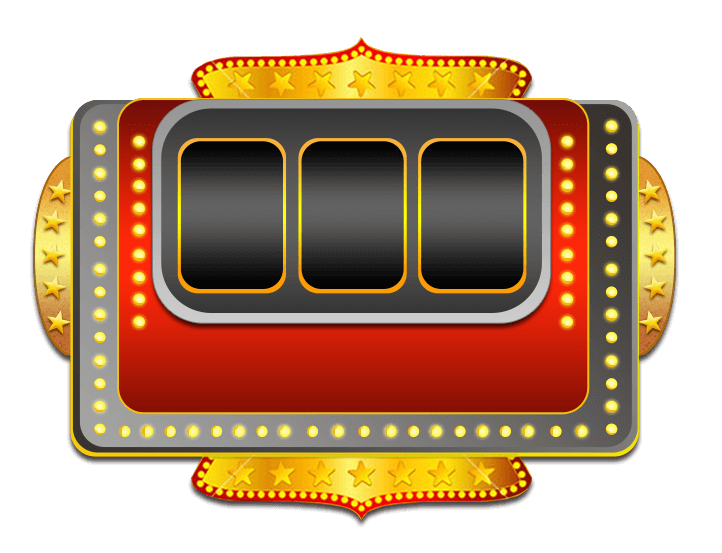
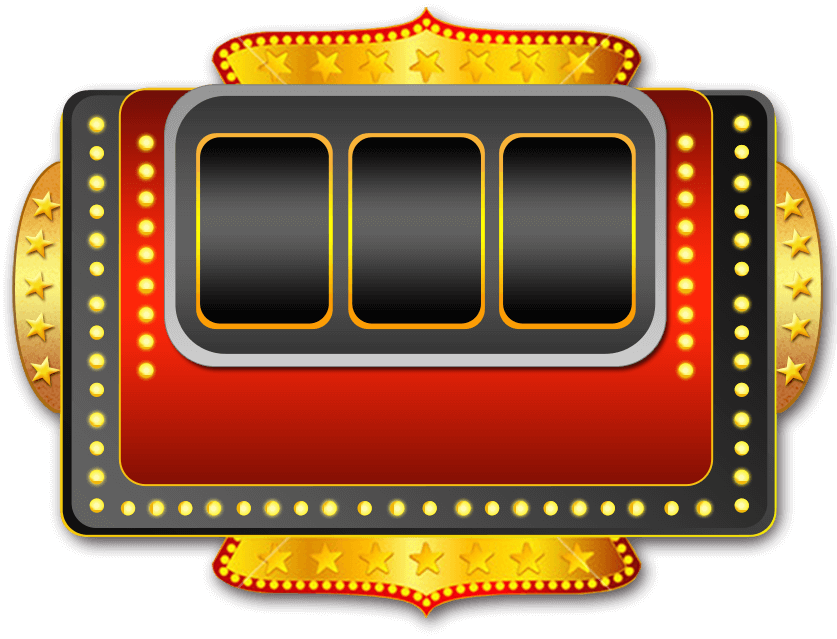
年会抽奖

diff --git a/work/2016lottery/js/js.min.js b/work/2016lottery/js/js.min.js
@@ -1,1 +1,1 @@
-!function(e){"use strict";var t="001,刘星,总经办;002,高鹏,海外事业部;003,吕孟欣,总经办;004,黄俊,技术部;005,张明哲,商务部;006,李典意,技术部;007,吕元璐,产品运营部;009,吴畏,第三方运营部;010,孟宪宝,供应链部;011,杨洪强,设计部;015,周强,技术部;016,李秋玉,商务部;017,陈娟,设计部;019,陈胜,技术部;020,赵少小,技术部;021,龚洪波,技术部;022,梁铭,第三方运营部;023,胡云,第三方运营部;024,卓邦友,产品运营部;025,罗静,技术部;026,许庆亚,海外事业部;027,钟浩,技术部;028,许其龙,技术部;029,吴佳坤,产品运营部;030,罗傲霜,产品运营部;031,张飞鹏,商务部;032,林佩锋,第三方运营部;034,吴鹏飞,技术部;035,杜果,设计部;036,利全佳,技术部;037,李峰,供应链部;038,申赋育,产品运部营;039,张晴,供应链部;040,李洁,设计部;041,吴珊,第三方运营部;042,黄绵卫,产品运营部;043,李路青,设计部;044,万雪良,产品运营部;045,吴优,设计部;046,陈花,技术部;047,余俊,产品运营部;048,杨志鹏,商务部;049,封美丽,商务部;051,李辉,产品运营部;052,汪凌峰,产品运营部;053,林卉,产品运营部;054,李芳芳,财务部;055,郑军,供应链部;056,杜莎莎,产品运营部;057,孙佳慧,人力行政部;059,李明晶,产品运营部;062,杨威,海外事业部;063,周易里,产品运营部;064,文雯,技术部;065,吴伟欣,商务部;066,邹丽,第三方运营部;067,张喆,第三方运营部;069,曹雅茹,产品运营部;070,罗成,技术部;071,李嘉莹,财务部;073,鲍飞,技术部;074,李令成,第三方运营部;075,谢斌,商务部;076,曾瑶敏,人力行政部;077,仲一成,商务部;079,李妍,产品运营部;080,刘羽,产品运营部;081,梁成进,技术部;082,谢诚诚,设计部;083,黄义秦,设计部;085,刘文俊,产品运营部;087,张飞云,商务部;088,程秀,商务部;089,刘旭东,产品运营部;090,蔡秋金,人力行政部;091,柳俊,技术部;092,屈国洪,供应链部;093,陈之励,运营部;094,陈洁琼,运营部;095,林増,产品运营部;096,黄逸明,运营部;098,邓雨婷,运营部;099,游如凤,商务部;101,曹方芳,产品运营部;102,刘文清,技术部;103,李颖,商务部;105,郭璋,海外事业部;106,周毅,海外事业部;107,汪庆文,技术部;109,徐美霞,产品运营部;110,文健,海外事业部;111,戴树云,人力资源部;112,李行,产品运营部;113,林伟令,第三方运营部;116,刘巧灵,供应链部;117,吕阳,人力资源部;118,杨争方,供应链部;119,杨元,财务部;120,魏仁志,技术部;122,尹利群,设计部;123,王超辉,技术部;124,胡浩,海外事业部;125,徐林楠,设计部;126,方增鸿,技术部",n=Base.klass.create({elements:{"#j_controlBtn":"elBtn","#j_num_1":"elNum1","#j_num_2":"elNum2","#j_num_3":"elNum3","#j_resultWrap":"elResultWrap","#j_gameWrap":"elGameWrap"},events:{"click #j_controlBtn":"lotteryEvent","click #j-clearList":"clearListEvent","click #j_layerBg":"closeLayerEvent"},debug:!1,params:{animateSpeed:100,singleHeight:145,data:null,winningCookieId:"winningId",isPlaying:!1,playFlag:"active"},consoleLog:function(e){this.debug&&console.log(e)},init:function(){this.params.data=this._parseData(),this.consoleLog(this.params.data),this.specialEvent(),this.flush()},_parseData:function(){var e,n,i,a=[];if(t&&(e=String(t).split(";"),n=e.length,n>0))for(var s=0;n>s;s++)i=String(e[s]).split(","),a.push({id:i[0],name:i[1],department:i[2]});return a},flush:function(){},specialEvent:function(){var t=e("#j_wel2016"),n=this,i=1e3;t.one("click",function(){t.animate({bottom:0,right:0,width:"200px"},i),n.elGameWrap.fadeIn(2e3)})},lotteryEvent:function(e){return e.preventDefault(),this.params.isPlaying?!1:void(this.elBtn.hasClass(this.params.playFlag)?this.endLottery():this.startLottery())},clearListEvent:function(){this.clearWinningedUser(),alert("清除中奖纪录成功")},closeLayerEvent:function(){this.elResultWrap.fadeOut()},getWinningedUser:function(){return Base.cookie.getCookie(this.params.winningCookieId)},addWinningedUser:function(e){Base.cookie.setCookie({name:this.params.winningCookieId,value:(this.getWinningedUser()+","+e).replace(/^,*/,"")})},clearWinningedUser:function(){Base.cookie.setCookie({name:this.params.winningCookieId,value:""})},getRandomUser:function(e){function t(){var n=Math.floor(Math.random()*e);return this.consoleLog(n+"是中过奖"+(a.indexOf(i[n].id)>-1)),n=a.indexOf(i[n].id)>-1?t.call(this,e):n}var n,i=this.params.data,a=this.getWinningedUser();return e=e||i.length,a.split(",").length>=e?!1:(n=t.call(this),i[n])},_animate:function(t,n){function i(){t.css({top:0}).delay(n.delay).animate({top:s+"px"},l,n.easing,function(){n.isFree?(t.css({top:0}),n.delay=0,i()):n.endCall()})}function a(e){n.isFree=!1,"function"==typeof e&&(n.endCall=e)}n=e.extend({isFree:!0,singleSpeed:this.params.animateSpeed,easing:"linear",singleHeight:this.params.singleHeight,numberLength:10,delay:0,endCall:e.noop},n);var s=0-n.singleHeight*n.numberLength,l=+n.singleSpeed*n.numberLength;return i(),{start:i,end:a}},startAnimate:function(){this.animateNum1=this._animate(this.elNum1,{delay:400}),this.animateNum2=this._animate(this.elNum2,{delay:200}),this.animateNum3=this._animate(this.elNum3)},fixRandomNum:function(e){return 10>e?"00"+e:100>e?"0"+e:e},endAnimate:function(){function e(){clearTimeout(a),a=setTimeout(function(){n["animateNum"+i].end(function(){n["elNum"+i].css({top:0}),n._animate(n["elNum"+i],{isFree:!1,numberLength:+String(t).charAt(i-1),endCall:function(){i--,0!=i?e():setTimeout(function(){n._showResult(),n.params.isPlaying=!1},l)}})})},s)}var t=this.fixRandomNum(+this.winUser.id),n=this,i=3,a=null,s=700,l=1e3;n.params.isPlaying=!0,e()},_showResult:function(){this.elResultWrap.find(".j_id").text("MS0"+this.winUser.id),this.elResultWrap.find(".j_department").text(this.winUser.department),this.elResultWrap.find(".j_name").text(this.winUser.name),this.elResultWrap.fadeIn()},startLottery:function(){this.elBtn.addClass(this.params.playFlag),this.startAnimate()},endLottery:function(){var e;this.elBtn.removeClass(this.params.playFlag),this.winUser=e=this.getRandomUser(),0!=e?(this.consoleLog("当前中奖用户:"),this.consoleLog(e),this.addWinningedUser(e.id),this.endAnimate()):alert("所有人都中过奖了")}});e(function(){new n})}(jQuery);
+!function(e){"use strict";var t="001,刘星,总经办;001,刘星,总经办;002,高鹏,海外事业部;003,吕孟欣,总经办;004,黄俊,技术部;005,张明哲,商务部;006,李典意,技术部;007,吕元璐,产品运营部;009,吴畏,第三方运营部;010,孟宪宝,供应链部;011,杨洪强,设计部;015,周强,技术部;016,李秋玉,商务部;017,陈娟,设计部;019,陈胜,技术部;020,赵少小,技术部;021,龚洪波,技术部;022,梁铭,第三方运营部;023,胡云,第三方运营部;024,卓邦友,产品运营部;025,罗静,技术部;026,许庆亚,海外事业部;027,钟浩,技术部;028,许其龙,技术部;029,吴佳坤,产品运营部;030,罗傲霜,产品运营部;031,张飞鹏,商务部;032,林佩锋,第三方运营部;034,吴鹏飞,技术部;035,杜果,设计部;036,利全佳,技术部;037,李峰,供应链部;038,申赋育,产品运部营;039,张晴,供应链部;040,李洁,设计部;041,吴珊,第三方运营部;042,黄绵卫,产品运营部;043,李路青,设计部;044,万雪良,产品运营部;045,吴优,设计部;046,陈花,技术部;047,余俊,产品运营部;048,杨志鹏,商务部;049,封美丽,商务部;051,李辉,产品运营部;052,汪凌峰,产品运营部;053,林卉,产品运营部;054,李芳芳,财务部;055,郑军,供应链部;056,杜莎莎,产品运营部;057,孙佳慧,人力行政部;059,李明晶,产品运营部;062,杨威,海外事业部;063,周易里,产品运营部;064,文雯,技术部;065,吴伟欣,商务部;066,邹丽,第三方运营部;067,张喆,第三方运营部;069,曹雅茹,产品运营部;070,罗成,技术部;071,李嘉莹,财务部;073,鲍飞,技术部;074,李令成,第三方运营部;075,谢斌,商务部;076,曾瑶敏,人力行政部;077,仲一成,商务部;079,李妍,产品运营部;080,刘羽,产品运营部;081,梁成进,技术部;082,谢诚诚,设计部;083,黄义秦,设计部;085,刘文俊,产品运营部;087,张飞云,商务部;088,程秀,商务部;089,刘旭东,产品运营部;090,蔡秋金,人力行政部;091,柳俊,技术部;092,屈国洪,供应链部;093,陈之励,运营部;094,陈洁琼,运营部;095,林増,产品运营部;096,黄逸明,运营部;098,邓雨婷,运营部;099,游如凤,商务部;101,曹方芳,产品运营部;102,刘文清,技术部;103,李颖,商务部;105,郭璋,海外事业部;106,周毅,海外事业部;107,汪庆文,技术部;109,徐美霞,产品运营部;110,文健,海外事业部;111,戴树云,人力资源部;112,李行,产品运营部;113,林伟令,第三方运营部;116,刘巧灵,供应链部;117,吕阳,人力资源部;118,杨争方,供应链部;119,杨元,财务部;120,魏仁志,技术部;122,尹利群,设计部;123,王超辉,技术部;124,胡浩,海外事业部;125,徐林楠,设计部;126,方增鸿,技术部",n=Base.klass.create({elements:{"#j_controlBtn":"elBtn","#j_num_1":"elNum1","#j_num_2":"elNum2","#j_num_3":"elNum3","#j_resultWrap":"elResultWrap","#j_gameWrap":"elGameWrap"},events:{"click #j_controlBtn":"lotteryEvent","click #j-clearList":"clearListEvent","click #j_layerBg":"closeLayerEvent"},debug:!1,params:{animateSpeed:100,singleHeight:185,data:null,winningCookieId:"winningId",isPlaying:!1,playFlag:"active"},consoleLog:function(e){this.debug&&console.log(e)},init:function(){this.params.data=this._parseData(),this.consoleLog(this.params.data),this.specialEvent(),this.flush()},_parseData:function(){var e,n,i,a=[];if(t&&(e=String(t).split(";"),n=e.length,n>0))for(var s=0;n>s;s++)i=String(e[s]).split(","),a.push({id:i[0],name:i[1],department:i[2]});return a},flush:function(){},specialEvent:function(){var t=e("#j_wel2016"),n=this,i=1e3;t.one("click",function(){t.animate({bottom:0,right:0,width:"15%"},i),n.elGameWrap.fadeIn(2e3)})},lotteryEvent:function(e){return e.preventDefault(),this.params.isPlaying?!1:void(this.elBtn.hasClass(this.params.playFlag)?this.endLottery():this.startLottery())},clearListEvent:function(){this.clearWinningedUser(),alert("清除中奖纪录成功")},closeLayerEvent:function(){this.elResultWrap.fadeOut()},getWinningedUser:function(){return Base.cookie.getCookie(this.params.winningCookieId)},addWinningedUser:function(e){Base.cookie.setCookie({name:this.params.winningCookieId,value:(this.getWinningedUser()+","+e).replace(/^,*/,"")})},clearWinningedUser:function(){Base.cookie.setCookie({name:this.params.winningCookieId,value:""})},getRandomUser:function(e){function t(){var n=Math.floor(Math.random()*e);return this.consoleLog(n+"是中过奖"+(a.indexOf(i[n].id)>-1)),n=a.indexOf(i[n].id)>-1?t.call(this,e):n}var n,i=this.params.data,a=this.getWinningedUser();return e=e||i.length,a.split(",").length>=e?!1:(n=t.call(this),i[n])},_animate:function(t,n){function i(){t.css({top:0}).delay(n.delay).animate({top:s+"px"},l,n.easing,function(){n.isFree?(t.css({top:0}),n.delay=0,i()):n.endCall()})}function a(e){n.isFree=!1,"function"==typeof e&&(n.endCall=e)}n=e.extend({isFree:!0,singleSpeed:this.params.animateSpeed,easing:"linear",singleHeight:this.params.singleHeight,numberLength:10,delay:0,endCall:e.noop},n);var s=0-n.singleHeight*n.numberLength,l=+n.singleSpeed*n.numberLength;return i(),{start:i,end:a}},startAnimate:function(){this.animateNum1=this._animate(this.elNum1,{delay:400}),this.animateNum2=this._animate(this.elNum2,{delay:200}),this.animateNum3=this._animate(this.elNum3)},fixRandomNum:function(e){return 10>e?"00"+e:100>e?"0"+e:e},endAnimate:function(){function e(){clearTimeout(a),a=setTimeout(function(){n["animateNum"+i].end(function(){n["elNum"+i].css({top:0}),n._animate(n["elNum"+i],{isFree:!1,numberLength:+String(t).charAt(i-1),endCall:function(){i--,0!=i?e():setTimeout(function(){n._showResult(),n.params.isPlaying=!1},l)}})})},s)}var t=this.fixRandomNum(+this.winUser.id),n=this,i=3,a=null,s=700,l=1e3;n.params.isPlaying=!0,e()},_showResult:function(){this.elResultWrap.find(".j_id").text("MS0"+this.winUser.id),this.elResultWrap.find(".j_department").text(this.winUser.department),this.elResultWrap.find(".j_name").text(this.winUser.name),this.elResultWrap.fadeIn()},startLottery:function(){this.elBtn.addClass(this.params.playFlag),this.startAnimate()},endLottery:function(){var e;this.elBtn.removeClass(this.params.playFlag),this.winUser=e=this.getRandomUser(),0!=e?(this.consoleLog("当前中奖用户:"),this.consoleLog(e),this.addWinningedUser(e.id),this.endAnimate()):alert("所有人都中过奖了")}});e(function(){new n})}(jQuery);

diff --git a/work/2016lottery/js/js.js b/work/2016lottery/js/js.js
@@ -1,7 +1,7 @@
 (function ($) {
     "use strict";
 
-    var USERDATA = '001,刘星,总经办;002,高鹏,海外事业部;003,吕孟欣,总经办;004,黄俊,技术部;005,张明哲,商务部;006,李典意,技术部;007,吕元璐,产品运营部;009,吴畏,第三方运营部;010,孟宪宝,供应链部;011,杨洪强,设计部;015,周强,技术部;016,李秋玉,商务部;017,陈娟,设计部;019,陈胜,技术部;020,赵少小,技术部;021,龚洪波,技术部;022,梁铭,第三方运营部;023,胡云,第三方运营部;024,卓邦友,产品运营部;025,罗静,技术部;026,许庆亚,海外事业部;027,钟浩,技术部;028,许其龙,技术部;029,吴佳坤,产品运营部;030,罗傲霜,产品运营部;031,张飞鹏,商务部;032,林佩锋,第三方运营部;034,吴鹏飞,技术部;035,杜果,设计部;036,利全佳,技术部;037,李峰,供应链部;038,申赋育,产品运部营;039,张晴,供应链部;040,李洁,设计部;041,吴珊,第三方运营部;042,黄绵卫,产品运营部;043,李路青,设计部;044,万雪良,产品运营部;045,吴优,设计部;046,陈花,技术部;047,余俊,产品运营部;048,杨志鹏,商务部;049,封美丽,商务部;051,李辉,产品运营部;052,汪凌峰,产品运营部;053,林卉,产品运营部;054,李芳芳,财务部;055,郑军,供应链部;056,杜莎莎,产品运营部;057,孙佳慧,人力行政部;059,李明晶,产品运营部;062,杨威,海外事业部;063,周易里,产品运营部;064,文雯,技术部;065,吴伟欣,商务部;066,邹丽,第三方运营部;067,张喆,第三方运营部;069,曹雅茹,产品运营部;070,罗成,技术部;071,李嘉莹,财务部;073,鲍飞,技术部;074,李令成,第三方运营部;075,谢斌,商务部;076,曾瑶敏,人力行政部;077,仲一成,商务部;079,李妍,产品运营部;080,刘羽,产品运营部;081,梁成进,技术部;082,谢诚诚,设计部;083,黄义秦,设计部;085,刘文俊,产品运营部;087,张飞云,商务部;088,程秀,商务部;089,刘旭东,产品运营部;090,蔡秋金,人力行政部;091,柳俊,技术部;092,屈国洪,供应链部;093,陈之励,运营部;094,陈洁琼,运营部;095,林増,产品运营部;096,黄逸明,运营部;098,邓雨婷,运营部;099,游如凤,商务部;101,曹方芳,产品运营部;102,刘文清,技术部;103,李颖,商务部;105,郭璋,海外事业部;106,周毅,海外事业部;107,汪庆文,技术部;109,徐美霞,产品运营部;110,文健,海外事业部;111,戴树云,人力资源部;112,李行,产品运营部;113,林伟令,第三方运营部;116,刘巧灵,供应链部;117,吕阳,人力资源部;118,杨争方,供应链部;119,杨元,财务部;120,魏仁志,技术部;122,尹利群,设计部;123,王超辉,技术部;124,胡浩,海外事业部;125,徐林楠,设计部;126,方增鸿,技术部';
+    var USERDATA = '001,刘星,总经办;001,刘星,总经办;002,高鹏,海外事业部;003,吕孟欣,总经办;004,黄俊,技术部;005,张明哲,商务部;006,李典意,技术部;007,吕元璐,产品运营部;009,吴畏,第三方运营部;010,孟宪宝,供应链部;011,杨洪强,设计部;015,周强,技术部;016,李秋玉,商务部;017,陈娟,设计部;019,陈胜,技术部;020,赵少小,技术部;021,龚洪波,技术部;022,梁铭,第三方运营部;023,胡云,第三方运营部;024,卓邦友,产品运营部;025,罗静,技术部;026,许庆亚,海外事业部;027,钟浩,技术部;028,许其龙,技术部;029,吴佳坤,产品运营部;030,罗傲霜,产品运营部;031,张飞鹏,商务部;032,林佩锋,第三方运营部;034,吴鹏飞,技术部;035,杜果,设计部;036,利全佳,技术部;037,李峰,供应链部;038,申赋育,产品运部营;039,张晴,供应链部;040,李洁,设计部;041,吴珊,第三方运营部;042,黄绵卫,产品运营部;043,李路青,设计部;044,万雪良,产品运营部;045,吴优,设计部;046,陈花,技术部;047,余俊,产品运营部;048,杨志鹏,商务部;049,封美丽,商务部;051,李辉,产品运营部;052,汪凌峰,产品运营部;053,林卉,产品运营部;054,李芳芳,财务部;055,郑军,供应链部;056,杜莎莎,产品运营部;057,孙佳慧,人力行政部;059,李明晶,产品运营部;062,杨威,海外事业部;063,周易里,产品运营部;064,文雯,技术部;065,吴伟欣,商务部;066,邹丽,第三方运营部;067,张喆,第三方运营部;069,曹雅茹,产品运营部;070,罗成,技术部;071,李嘉莹,财务部;073,鲍飞,技术部;074,李令成,第三方运营部;075,谢斌,商务部;076,曾瑶敏,人力行政部;077,仲一成,商务部;079,李妍,产品运营部;080,刘羽,产品运营部;081,梁成进,技术部;082,谢诚诚,设计部;083,黄义秦,设计部;085,刘文俊,产品运营部;087,张飞云,商务部;088,程秀,商务部;089,刘旭东,产品运营部;090,蔡秋金,人力行政部;091,柳俊,技术部;092,屈国洪,供应链部;093,陈之励,运营部;094,陈洁琼,运营部;095,林増,产品运营部;096,黄逸明,运营部;098,邓雨婷,运营部;099,游如凤,商务部;101,曹方芳,产品运营部;102,刘文清,技术部;103,李颖,商务部;105,郭璋,海外事业部;106,周毅,海外事业部;107,汪庆文,技术部;109,徐美霞,产品运营部;110,文健,海外事业部;111,戴树云,人力资源部;112,李行,产品运营部;113,林伟令,第三方运营部;116,刘巧灵,供应链部;117,吕阳,人力资源部;118,杨争方,供应链部;119,杨元,财务部;120,魏仁志,技术部;122,尹利群,设计部;123,王超辉,技术部;124,胡浩,海外事业部;125,徐林楠,设计部;126,方增鸿,技术部';
 
     var Lottery = Base.klass.create({
         elements: {
@@ -20,7 +20,7 @@
         debug: false,
         params: {
             animateSpeed: 100,   // 移动一格 ms,
-            singleHeight: 145,    // 单个高度
+            singleHeight: 185,    // 单个高度
             data: null,
             winningCookieId: 'winningId',
             isPlaying: false,
@@ -75,7 +75,7 @@
                 $elWel.animate({
                     bottom : 0,
                     right : 0,
-                    width : '200px'
+                    width : '15%'
                 },duration);
                 self.elGameWrap.fadeIn(2000);
             });

diff --git a/work/2016lottery/css/style.less b/work/2016lottery/css/style.less
@@ -1,24 +1,24 @@
 @import 'common/reset.less';
 
 //html,body{width: 100%;height: 100%;}
-.container{width: 1024px;margin: 0 auto;
+.container{width: 100%;margin: 0 auto;max-width: 1376px;min-width: 1120px;
     img{width: 100%;height: auto;vertical-align: top;}
     .bg-img{position:relative;z-index: -1;}
     .lottery-wrap{position: relative;}
     .content-wrap{position: absolute;width: 100%;height: 100%;top:0;left: 0;}
-    .wel-2016{position: absolute; width: 678px; bottom: 73px; right: 173px;}
+    .wel-2016{position: absolute; width: 49%; bottom: 22%; right: 26%;}
 
-    .game{display:none;position: relative;margin: 12px auto 0;width: 722px; height: auto;
-        .control-wrap{position: absolute;width:100%;height:auto;top:61%;left:0;text-align: center;filter: inherit;
-            .control-btn{position:relative;filter: inherit;display: inline-block;width: 260px;height: 65px;line-height: 65px;font-size: 0;background: url("../img/btn.png") no-repeat;transition: background-position 0.6s ease;vertical-align: top;
-                &.active{background-position: 0 -71px;}
+    .game{display:none;position: absolute;left:50%;top:50%;margin-left: -837/2px;margin-top:-639/2px;width: 837px; height: 639px;
+        .control-wrap{position: absolute;width:100%;height:auto;top:60%;left:0;text-align: center;filter: inherit;
+            .control-btn{position:relative;filter: inherit;display: inline-block;width: 480px;height: 90px;line-height: 65px;font-size: 0;background: url("../img/btn.png") no-repeat;transition: background-position 0.4s ease;vertical-align: top;
+                &.active{background-position: 0 -96px;}
             }
         }
-        .num-wrap{position: absolute; filter: inherit; width: 358px; height: 145px; top: 142px; left: 24%; overflow:hidden;
-            .num{position: absolute; filter: inherit; display:block;top: 0;width: 85px;height: 1595px;background: url("../img/num.png") no-repeat 50% 0;}
-            .num1{left: 17px;}
-            .num2{left: 137px;}
-            .num3{left: 257px;}
+        .num-wrap{position: absolute; filter: inherit; width: 432px; height: 185px; top: 138px; left: 24%; overflow:hidden;
+            .num{position: absolute; filter: inherit; display:block;top: 0;width: 114px;height: 2132px;background: url("../img/num.png") no-repeat 50% 0;background-size: 109px 2035px;}
+            .num1{left: 8px;}
+            .num2{left: 160px;}
+            .num3{left: 311px;}
         }
     }
     .result-wrap{display: none;position: absolute; width: 100%; height: 100%; top: 0; left: 0;
@@ -30,7 +30,7 @@
         h3{border-bottom: 1px solid #ffffff;font-size: 40px;}
         .result{display: table;width: 100%;font-size: 50px;line-height: 115px;
             span{display: table-cell;width: 33.333%;white-space: nowrap;text-overflow: ellipsis;overflow: hidden;}
-            .id,.department{font-size: 35px;max-width: 187px;}
+            .id,.department{font-size: 30px;max-width: 187px;}
         }
     }
     .clear-list{position: absolute; bottom: 0; left: 0;}

diff --git a/work/2016lottery/css/style.css b/work/2016lottery/css/style.css
@@ -121,8 +121,10 @@ input[type="submit"] {
   cursor: pointer;
 }
 .container {
-  width: 1024px;
+  width: 100%;
   margin: 0 auto;
+  max-width: 1376px;
+  min-width: 1120px;
 }
 .container img {
   width: 100%;
@@ -145,67 +147,76 @@ input[type="submit"] {
 }
 .container .wel-2016 {
   position: absolute;
-  width: 678px;
-  bottom: 73px;
-  right: 173px;
+  width: 49%;
+  bottom: 22%;
+  right: 26%;
 }
 .container .game {
   display: none;
-  position: relative;
-  margin: 12px auto 0;
-  width: 722px;
-  height: auto;
+  position: absolute;
+  left: 50%;
+  top: 50%;
+  margin-left: -418.5px;
+  margin-top: -319.5px;
+  width: 837px;
+  height: 639px;
 }
 .container .game .control-wrap {
   position: absolute;
   width: 100%;
   height: auto;
-  top: 61%;
+  top: 60%;
   left: 0;
   text-align: center;
-  filter: inherit;
+  -webkit-filter: inherit;
+          filter: inherit;
 }
 .container .game .control-wrap .control-btn {
   position: relative;
-  filter: inherit;
+  -webkit-filter: inherit;
+          filter: inherit;
   display: inline-block;
-  width: 260px;
-  height: 65px;
+  width: 480px;
+  height: 90px;
   line-height: 65px;
   font-size: 0;
   background: url("../img/btn.png") no-repeat;
-  transition: background-position 0.6s ease;
+  -webkit-transition: background-position 0.4s ease;
+          transition: background-position 0.4s ease;
   vertical-align: top;
 }
 .container .game .control-wrap .control-btn.active {
-  background-position: 0 -71px;
+  background-position: 0 -96px;
 }
 .container .game .num-wrap {
   position: absolute;
-  filter: inherit;
-  width: 358px;
-  height: 145px;
-  top: 142px;
+  -webkit-filter: inherit;
+          filter: inherit;
+  width: 432px;
+  height: 185px;
+  top: 138px;
   left: 24%;
   overflow: hidden;
 }
 .container .game .num-wrap .num {
   position: absolute;
-  filter: inherit;
+  -webkit-filter: inherit;
+          filter: inherit;
   display: block;
   top: 0;
-  width: 85px;
-  height: 1595px;
+  width: 114px;
+  height: 2132px;
   background: url("../img/num.png") no-repeat 50% 0;
+  background-size: 109px 2035px;
 }
 .container .game .num-wrap .num1 {
-  left: 17px;
+  left: 8px;
 }
 .container .game .num-wrap .num2 {
-  left: 137px;
+  left: 160px;
 }
 .container .game .num-wrap .num3 {
-  left: 257px;
+  left: 311px;
 }
 .container .result-wrap {
   display: none;
@@ -217,7 +228,8 @@ input[type="submit"] {
 }
 .container .result-wrap .layer-bg,
 .container .result-wrap .content {
-  filter: inherit;
+  -webkit-filter: inherit;
+          filter: inherit;
 }
 .container .result-wrap .layer-bg {
   position: absolute;
@@ -269,7 +281,7 @@ input[type="submit"] {
 }
 .container .result-wrap .result .id,
 .container .result-wrap .result .department {
-  font-size: 35px;
+  font-size: 30px;
   max-width: 187px;
 }
 .container .clear-list {

diff --git a/work/2016lottery/index.html b/work/2016lottery/index.html
@@ -4,9 +4,9 @@
     <meta charset="UTF-8">
     <title>启明星新春年会大抽奖</title>
     <meta name="renderer" content="webkit">
-    <link rel="stylesheet" href="css/style.css"/>
+    <link rel="stylesheet" href="css/style.css?01"/>
     <script src="js/jquery-1.9.1.min.js"></script>
-    <script src="js/_base.js"></script>
+    <script src="js/_base.js?01"></script>
 </head>
 <body>
     <div class="container">
@@ -50,7 +50,7 @@
             </div>
         </div>
     </div>
-    <script src="js/js.js"></script>
+    <script src="js/js.js?01"></script>
 </body>
 </html>
 

diff --git a/work/2016lottery/js/_base.js b/work/2016lottery/js/_base.js
@@ -3,7 +3,7 @@
  */
 // 全局配置
 var DOMAIN = 'http://m.allpyra.com',
-    DOMAIN_COOKIE = 'test.local';
+    DOMAIN_COOKIE = window.location.hostname;
 
 (function($) {
 
